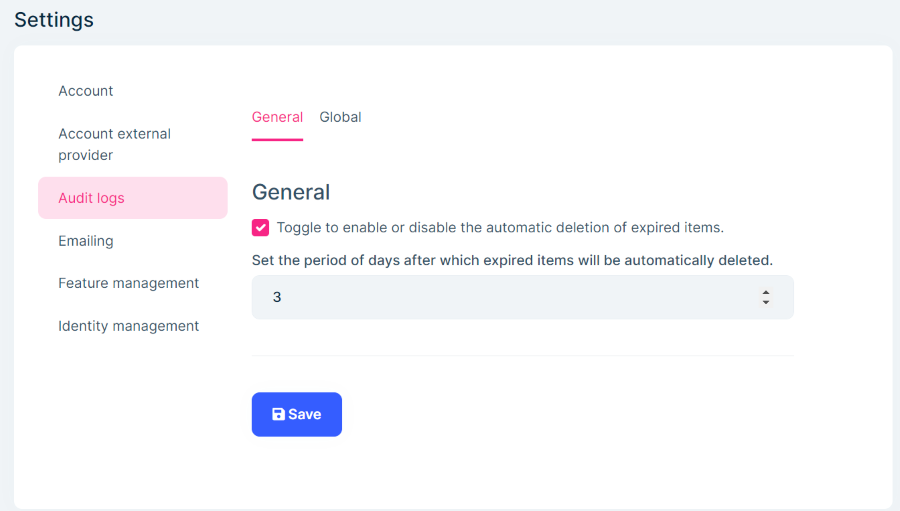
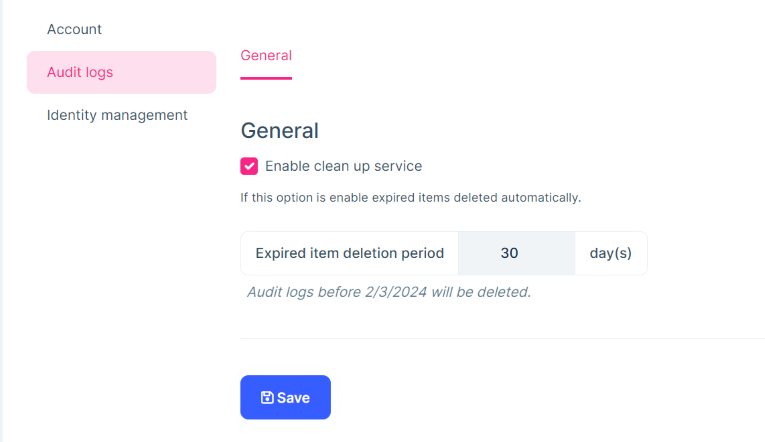
Audit log setting section updated

diff --git a/en/modules/audit-logging.md b/en/modules/audit-logging.md
@@ -80,17 +80,17 @@ You can view details of all changes of an entity by clicking the "Full Change Hi
 
 #### Audit Log Settings
 
-The *Audit Log* settings tab is used to configure audit log settings. You can enable or disable the periodic deletion of expired audit logs. To enable the periodic deletion worker, you need to enable it from the host side under *Settings* -> *Audit log* -> *Global*.
+The *Audit Log* settings tab is used to configure audit log settings. You can enable or disable the clean up service system wide. This way, you can shut down the clean up service for all tenants and host. If the system wide clean up service is enabled, you can configure the global *Expired Item Deletion Period* for all tenants and host.
 
 ![audit-logging-module-global-settings](../images/audit-logging-module-global-settings.png)
 
-You can set global settings for the audit log module from the host side in this way, ensuring that each tenant and host uses the global values. If you want to set tenant/host-specific values, you can do so under *Settings* -> *Audit log* -> *General*. It overrides the global settings.
+When configuring the global settings for the audit log module from the host side in this manner, ensure that each tenant and host uses the global values. If you want to set tenant/host-specific values, you can do so under *Settings* -> *Audit Log* -> *General*. This way, you can disable the clean up service for specific tenants or host. It overrides the global settings.
 
 ![audit-logging-module-general-settings](../images/audit-logging-module-general-settings.png)
 
 To view the audit log settings, you need to enable the feature. For the host side, navigate to *Settings* -> *Feature Management* -> *Manage Host Features* -> *Audit Logging* -> *Enable audit log setting management*. For the tenant side, you can use either [Tenant Features](./saas.md#tenant-features) or [Edition Features](./saas.md#edition-features).
 
-> If you don't enable the *Periodic Deletion Worker* from the host side under *Settings* -> *Audit log* -> *Global*, it won't remove the expired audit logs.
+> If you don't enable the *Cleanup Service System Wide* from the host side under *Settings* -> *Audit logs* -> *Global*, it won't remove the expired audit logs, even if there are tenant specific settings.
 
 ## Data seed
 
@@ -122,7 +122,7 @@ Configure<ExpiredAuditLogDeleterOptions>(options =>
 });
 ```
 
-The *Period* doesn't mean the time to delete the expired audit logs. It's the period of the worker to check the expired audit logs. The default value is 1 day.
+The *Period* doesn't mean the *Expired Item Deletion Period*. It's the period of the worker to run clean up service system wide. The default value is 1 day.
 
 ## Internals
 
